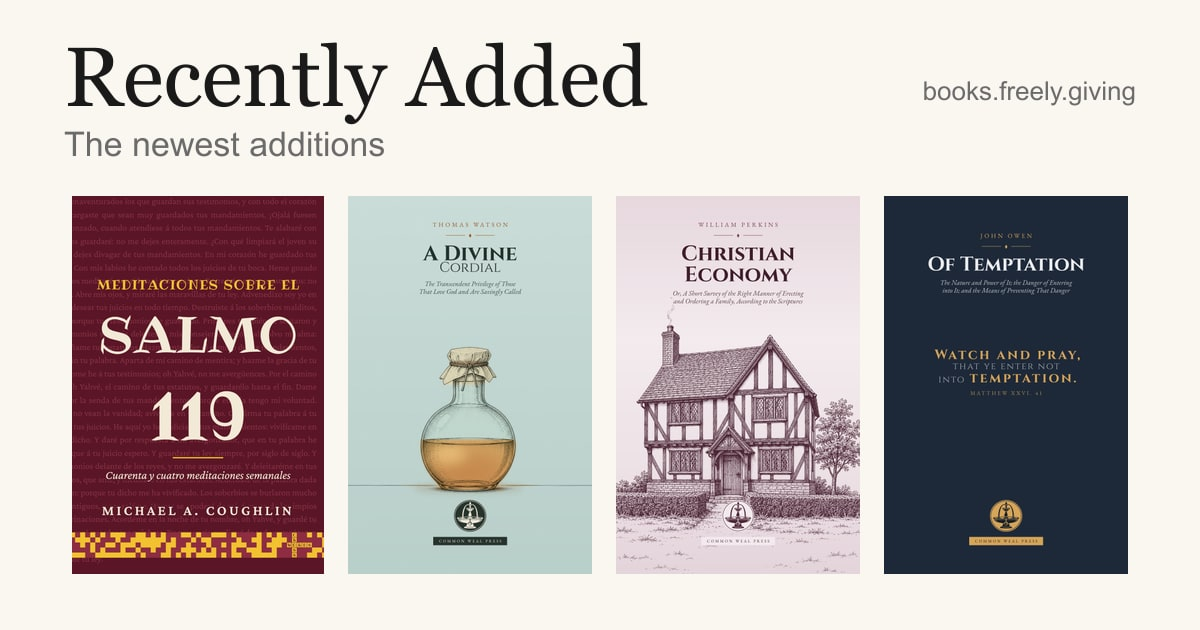
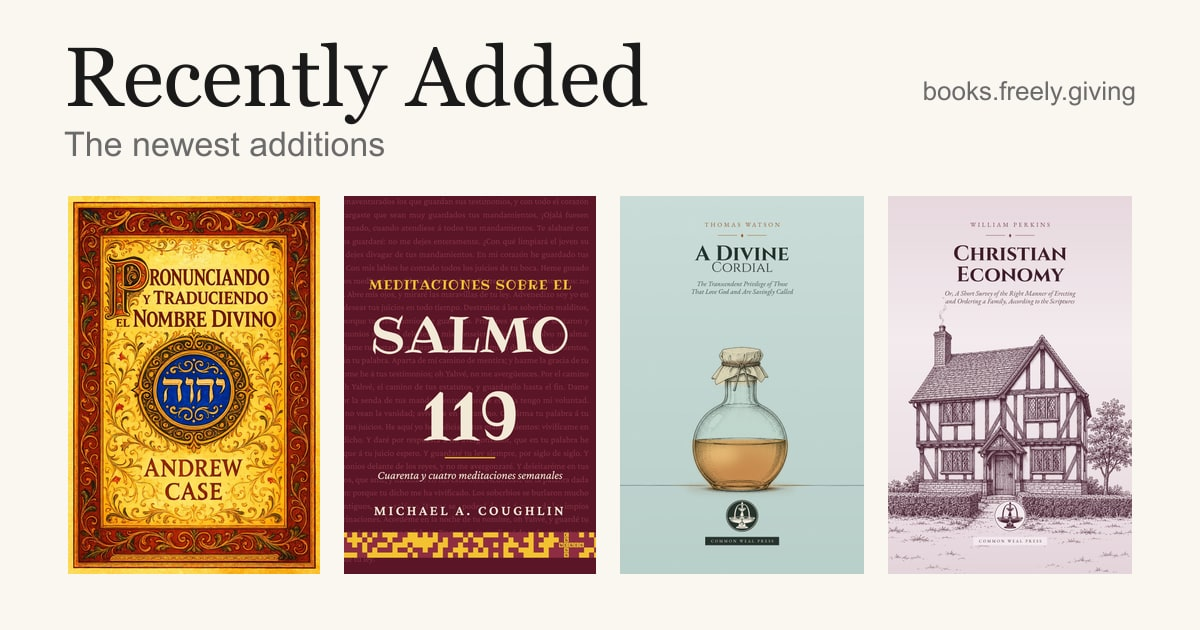
Spanish Divine Name gets its own page; add a translator credit
- el-nombre-divino: Pronunciando y traduciendo el Nombre Divino, with
  lang es, translationOf the-divine-name, the publisher's cover, and its
  links (read online, PDF, EPUB/Kindle/stores, Word, Amazon and Lulu print).
- the-divine-name: the htmlBookEs button and "Also available in Spanish"
  sentence go; the page now links the Spanish edition automatically.
- New credit role `translator` ("translated by"); not counted as a writer.

diff --git a/src/lib/data.js b/src/lib/data.js
@@ -51,6 +51,11 @@ export const ROLES = [
     description: "Wrote the foreword that introduces a book.",
   },
   {
+    key: "translator", label: "Translator", plural: "Translators",
+    booksHeading: "Books Translated", byline: "translated by",
+    description: "Translated a book into another language. Credited on that translated edition's own page.",
+  },
+  {
     key: "preparer", label: "Preparer", plural: "Preparers",
     booksHeading: "Books Prepared", byline: "prepared by",
     description: "Prepared a free edition for this site: digitizing, editing, typesetting or formatting it so it can be freely given.",
@@ -61,6 +66,9 @@ export const ROLES = [
 export const EVERYONE_DESCRIPTION = "Everyone credited on a book in this library, in any role.";
 
 const BOOK_ROLES = new Set(["author", "contributor", "foreword"]);
+// Every `role:` a credit may carry. A translator is credited on the translated edition but did
+// not write the book, so they stay out of BOOK_ROLES (the library's By Author tab).
+const CREDIT_ROLES = new Set([...BOOK_ROLES, "translator"]);
 
 /** Whether a credit carries a ROLES key — `preparer` is the `prepared` flag, the rest `role`. */
 export function creditHasRole(credit, roleKey) {
@@ -110,7 +118,7 @@ function normalizeCredit(entry, peopleBySlug, bookSlug) {
   const person = entry.person ? peopleBySlug[entry.person] : null;
   if (entry.person && !person)
     console.warn(`[data] ${bookSlug}: no data/src/${entry.person}/person.yaml for credit`);
-  if (entry.role && !BOOK_ROLES.has(entry.role))
+  if (entry.role && !CREDIT_ROLES.has(entry.role))
     console.warn(`[data] ${bookSlug}: unknown credit role "${entry.role}"`);
 
   const name = person ? personName(person) : (entry.name ?? entry.person ?? "");

diff --git a/CLAUDE.md b/CLAUDE.md
@@ -82,7 +82,9 @@ credits:
 
 Two kinds of credit, and a credit carries **at most one of each** — the owner explicitly
 didn't want a list of trades per person:
-- **Book credit**, `role:` — `author`, `contributor` (wrote part of the book) or `foreword`.
+- **Book credit**, `role:` — `author`, `contributor` (wrote part of the book), `foreword`, or
+  `translator` (on a translated edition's page: "translated by"; not counted as a writer, so not
+  in /library's By Author tab).
   True of any printing of the book. Co-authors are several `author` credits; the first is
   primary and supplies the book URL's `[authorSlug]`.
 - **Edition credit**, `prepared: true` — made this free edition. Digitizing, editing,
@@ -186,9 +188,13 @@ description, and its own files, e.g. `meditaciones-sobre-el-salmo-119` beside
   Para imprimir); the `type`s are the ordinary ones, so no new type is registered.
 - `printBook` (Lulu) is added only once the translation has its own Lulu product.
 
-`htmlBookEs` is older and narrower: a Spanish read-online link on an *English* book whose
-Spanish edition has no page here (`the-divine-name`, hosted on freehebrew.online). Keep it for
-that case; if that edition is ever hosted here, give it its own page as above instead.
+The files may live elsewhere: `el-nombre-divino` (Spanish *Divine Name*) links to the publisher's
+own read-online page and OneDrive files, as the English page does. A page is about the edition,
+not where its files are hosted.
+
+`htmlBookEs` (a Spanish read-online button on an English page) is no longer used by any book:
+the-divine-name's was replaced by the `el-nombre-divino` page on 2026-11-13. It is still
+registered in the three places; don't use it for new books.
 
 Built HTML books (fonts and images beside `book.html`) become the single file the site serves
 with `python scripts/inline-html.py path/to/book.html content/<slug>.html`.
